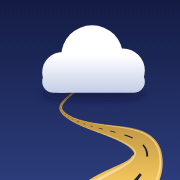
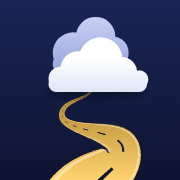
Refactor code structure for improved readability and maintainability

diff --git a/apps/web/src/lib/skyRenderer.ts b/apps/web/src/lib/skyRenderer.ts
@@ -97,15 +97,31 @@ export const SKY_LOOK: Record<SkyCondition, Look> = {
   },
 };
 
-/** Same layout as public/icon.svg (512 grid): the logo cloud, rendered for real. */
-const LOGO_CLOUD = {
-  circles: [
-    [178, 206, 58],
-    [262, 160, 88],
-    [350, 200, 62],
-  ] as [number, number, number][],
-  base: { x: 120, y: 200, w: 292, h: 64 },
-  box: { x: 108, y: 64, w: 316, h: 212 },
+/** Same layout as public/icon.svg (512 grid): the logo's two clouds, rendered for real. */
+interface CloudLayer {
+  circles: [number, number, number][];
+  base: { x: number; y: number; w: number; h: number };
+}
+const LOGO_CLOUD: { back: CloudLayer; front: CloudLayer; box: { x: number; y: number; w: number; h: number } } = {
+  back: {
+    circles: [
+      [208, 150, 58],
+      [272, 104, 56],
+      [320, 150, 46],
+    ],
+    base: { x: 150, y: 150, w: 214, h: 64 },
+  },
+  front: {
+    circles: [
+      [172, 224, 34],
+      [222, 196, 50],
+      [286, 168, 62],
+      [346, 206, 44],
+      [396, 226, 26],
+    ],
+    base: { x: 138, y: 218, w: 280, h: 44 },
+  },
+  box: { x: 132, y: 44, w: 296, h: 222 },
 };
 
 const MAX_WIDTH = 560; // matches --max
@@ -187,20 +203,22 @@ function cumulusPuffs(w: number, h: number): { puffs: Puff[]; baseY: number } {
 /** Room around the logo cloud for the puffs' soft edges. */
 const PAD = 46;
 
-function logoPuffs(scale: number): { puffs: Puff[]; baseY: number; w: number; h: number } {
-  const { circles, base, box } = LOGO_CLOUD;
+function logoPuffs(layer: CloudLayer, count: number, scale: number): { puffs: Puff[]; baseY: number; w: number; h: number } {
+  const { circles, base } = layer;
+  const { box } = LOGO_CLOUD;
   const inside = (x: number, y: number) =>
     circles.some(([cx, cy, r]) => (x - cx) ** 2 + (y - cy) ** 2 <= r * r) ||
     (x >= base.x && x <= base.x + base.w && y >= base.y && y <= base.y + base.h);
   const puffs: Puff[] = [];
   let guard = 0;
-  while (puffs.length < 90 && guard++ < 5000) {
+  while (puffs.length < count && guard++ < 5000) {
     const x = rand(box.x, box.x + box.w);
     const y = rand(box.y, box.y + box.h);
     if (!inside(x, y)) continue;
-    const r = rand(30, 46);
+    const r = rand(26, 42);
     puffs.push({ x: (x - box.x + PAD) * scale, y: (y - box.y + PAD) * scale, r: r * scale });
   }
+  // Both layers share one frame, so they line up exactly as in the icon.
   return { puffs, baseY: (base.y + base.h - box.y + PAD) * scale, w: (box.w + PAD * 2) * scale, h: (box.h + PAD * 2) * scale };
 }
 
@@ -279,7 +297,7 @@ export function createSkyRenderer(canvas: HTMLCanvasElement, initial: SkyScene, 
   let H = 0;
   let dpr = 1;
   let clouds: Cloud[] = [];
-  let anchor: { sprite: HTMLCanvasElement; w: number; h: number } | null = null;
+  let anchor: { back: HTMLCanvasElement; front: HTMLCanvasElement; w: number; h: number } | null = null;
   let anchorPad = 0;
   let drops: Drop[] = [];
   let stars: { x: number; y: number; r: number; phase: number; speed: number }[] = [];
@@ -331,9 +349,18 @@ export function createSkyRenderer(canvas: HTMLCanvasElement, initial: SkyScene, 
     }
 
     const aw = Math.min(W * 0.4, 180);
-    const lp = logoPuffs(aw / LOGO_CLOUD.box.w);
-    anchorPad = PAD * (aw / LOGO_CLOUD.box.w);
-    anchor = { sprite: paintCloud(lp.w, lp.h, lp.puffs, lp.baseY, tn, dpr), w: lp.w, h: lp.h };
+    const k = aw / LOGO_CLOUD.box.w;
+    const back = logoPuffs(LOGO_CLOUD.back, 55, k);
+    const front = logoPuffs(LOGO_CLOUD.front, 80, k);
+    // The back cloud sits further off, so it takes on the colour of the sky.
+    const far: Tone = { ...tn, lit: mix(tn.lit, skyMid, 0.35), shade: mix(tn.shade, skyMid, 0.35) };
+    anchorPad = PAD * k;
+    anchor = {
+      back: paintCloud(back.w, back.h, back.puffs, back.baseY, far, dpr),
+      front: paintCloud(front.w, front.h, front.puffs, front.baseY, tn, dpr),
+      w: front.w,
+      h: front.h,
+    };
 
     const area = (W * H) / 100_000;
     drops = Array.from({ length: Math.round(l.rain * area) }, () => ({ x: rand(-0.2 * W, 1.2 * W), y: rand(-H, H), z: rand(0.25, 1) }));
@@ -546,8 +573,10 @@ export function createSkyRenderer(canvas: HTMLCanvasElement, initial: SkyScene, 
 
     if (anchor) {
       const x = columnRight() - anchor.w + anchorPad + 6;
-      const y = 88 - anchorPad + Math.sin(t * 0.9) * 3;
-      g.drawImage(anchor.sprite, x, y, anchor.w, anchor.h);
+      const y = 80 - anchorPad;
+      // A touch of parallax: the far cloud drifts less than the near one.
+      g.drawImage(anchor.back, x, y + Math.sin(t * 0.7) * 1.5, anchor.w, anchor.h);
+      g.drawImage(anchor.front, x, y + Math.sin(t * 0.9) * 3, anchor.w, anchor.h);
     }
 
     drawClouds(2, dt);

diff --git a/apps/web/src/components/SkyHeader.tsx b/apps/web/src/components/SkyHeader.tsx
@@ -77,11 +77,10 @@ export function SkyHeader({ sky, now, view, onView, location, onLocate }: Props)
       <div className="sky-content">
         <div className="top">
           <div className="brand">
-            <img className="logo-mark" src="/icon.svg" width="40" height="40" alt="" />
-            <div>
-              <h1 className="wordmark">Segue</h1>
-              <p className="date">{longDate(now)}</p>
-            </div>
+            <h1 className="wordmark">
+              <img src="/wordmark-light.svg" alt="Segue" />
+            </h1>
+            <p className="date">{longDate(now)}</p>
           </div>
           <nav className="tabs" aria-label="Sections">
             <button type="button" aria-current={view === 'today' ? 'page' : undefined} onClick={() => onView('today')}>

diff --git a/apps/web/src/styles.css b/apps/web/src/styles.css
@@ -147,23 +147,19 @@ textarea {
 }
 
 .brand {
-  display: flex;
-  align-items: center;
-  gap: 10px;
+  min-width: 0;
 }
 
-.logo-mark {
-  flex: none;
-  border-radius: 10px;
-  box-shadow: 0 2px 10px rgb(0 0 0 / 0.3);
-}
-
+/* the S in the wordmark is the road; see public/wordmark-light.svg */
 .wordmark {
   margin: 0;
-  font-size: var(--step-1);
-  font-weight: 750;
-  letter-spacing: -0.02em;
-  line-height: 1;
+  line-height: 0;
+}
+.wordmark img {
+  display: block;
+  height: 38px;
+  width: auto;
+  filter: drop-shadow(0 1px 8px rgb(0 0 0 / 0.25));
 }
 
 .date {
@@ -172,7 +168,6 @@ textarea {
   opacity: 0.85;
 }
 
-.wordmark,
 .date,
 .weather {
   text-shadow: 0 1px 12px rgb(0 0 0 / 0.25);

diff --git a/apps/web/public/sw.js b/apps/web/public/sw.js
@@ -3,8 +3,8 @@
  * - Fonts: cache-first.
  * - API calls: always network; the app itself falls back to its on-device engine.
  */
-const VERSION = 'segue-v3';
-const SHELL = ['/', '/index.html', '/manifest.webmanifest', '/icon.svg', '/icon-192.png', '/icon-512.png', '/apple-touch-icon.png'];
+const VERSION = 'segue-v5';
+const SHELL = ['/', '/index.html', '/manifest.webmanifest', '/icon.svg', '/icon-192.png', '/icon-512.png', '/apple-touch-icon.png', '/wordmark-light.svg'];
 
 self.addEventListener('install', (event) => {
   event.waitUntil(
